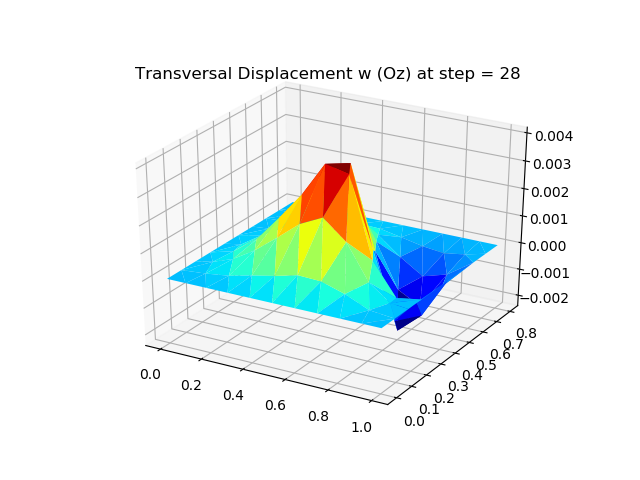
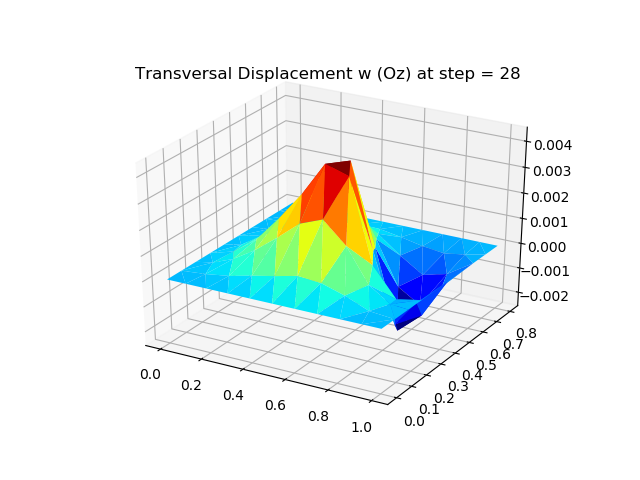
Fixing a bug in convergence in transversal load cases

diff --git a/src_code/core.py b/src_code/core.py
@@ -500,9 +500,9 @@ def internal_force_elem(X, T, ie, gp, Wgauss, saved_stress_xx,saved_stress_yy,sa
                      B=np.array([[dN1dx ,0     ,0            ,0            ,0            ,0 ,dN2dx ,0     ,0            ,0            ,0             ,0 ,dN3dx ,0     ,0            ,0            ,0           ,0],
                                  [0     ,dN1dy ,0            ,0            ,0            ,0 ,0     ,dN2dy ,0            ,0            ,0             ,0 ,0     ,dN3dy ,0            ,0            ,0           ,0],
                                  [dN1dy ,dN1dx ,0            ,0            ,0            ,0 ,dN2dy ,dN2dx ,0            ,0            ,0             ,0 ,dN3dy ,dN3dx ,0            ,0            ,0           ,0],
-                                 [0     ,0     ,ddN11[0,0]   ,ddN12[0,0]   ,ddN13[0,0]   ,0 ,0     ,0     ,ddN21[0,0]   ,ddN22[0,0]   ,ddN23[0,0]    ,0 ,0     ,0     ,ddN31[0,0]   ,ddN32[0,0]   ,ddN33[0,0]  ,0],
-                                 [0     ,0     ,ddN11[1,1]   ,ddN12[1,1]   ,ddN13[1,1]   ,0 ,0     ,0     ,ddN21[1,1]   ,ddN22[1,1]   ,ddN23[1,1]    ,0 ,0     ,0     ,ddN31[1,1]   ,ddN32[1,1]   ,ddN33[1,1]  ,0],
-                                 [0     ,0     ,2*ddN11[0,1] ,2*ddN12[0,1] ,2*ddN13[0,1] ,0 ,0     ,0     ,2*ddN21[0,1] ,2*ddN22[0,1] ,2*ddN23[0,1]  ,0 ,0     ,0     ,2*ddN31[0,1] ,2*ddN32[0,1] ,2*ddN33[0,1],0]])
+                                 [0     ,0     ,-ddN11[0,0]   ,-ddN12[0,0]   ,-ddN13[0,0]   ,0 ,0     ,0     ,-ddN21[0,0]   ,-ddN22[0,0]   ,-ddN23[0,0]    ,0 ,0     ,0     ,-ddN31[0,0]   ,-ddN32[0,0]   ,-ddN33[0,0]  ,0],
+                                 [0     ,0     ,-ddN11[1,1]   ,-ddN12[1,1]   ,-ddN13[1,1]   ,0 ,0     ,0     ,-ddN21[1,1]   ,-ddN22[1,1]   ,-ddN23[1,1]    ,0 ,0     ,0     ,-ddN31[1,1]   ,-ddN32[1,1]   ,-ddN33[1,1]  ,0],
+                                 [0     ,0     ,-2*ddN11[0,1] ,-2*ddN12[0,1] ,-2*ddN13[0,1] ,0 ,0     ,0     ,-2*ddN21[0,1] ,-2*ddN22[0,1] ,-2*ddN23[0,1]  ,0 ,0     ,0     ,-2*ddN31[0,1] ,-2*ddN32[0,1] ,-2*ddN33[0,1],0]])
 
                      stress = np.array(
                          [[saved_stress_xx[ii, thick, ie, jj]], [saved_stress_yy[ii, thick, ie, jj]],
@@ -522,7 +522,6 @@ def internal_force_elem(X, T, ie, gp, Wgauss, saved_stress_xx,saved_stress_yy,sa
                 thick+=1
 
             jj += 1
-
 
 
         return qe

diff --git a/src_code/solving.py b/src_code/solving.py
@@ -542,7 +542,6 @@ def plastic_analysis(X, T, globalK, Fb, plast_param, material_param, b, box, tot
             else:
                 tolerance = sp.linalg.norm(residual)/sp.linalg.norm(sp.csr_matrix(Fb+deltaFb))
 
-            print(q)
             data_tmp = '\nResidual: '+str(tolerance)+' \n'
             data_text += data_tmp
             print(data_tmp)
@@ -594,27 +593,25 @@ def plastic_analysis(X, T, globalK, Fb, plast_param, material_param, b, box, tot
                 k=0
                 while k < TT:
 
+                    kappa = k_calc(X, T, w, thetax, thetay, k)
+
                     j=0
                     count2 = 0
                     while j<Nplies:
 
+                        theta = angles[j]
+
+                        Tr = np.array([[m.cos(theta) ** 2, m.sin(theta) ** 2, 2 * m.sin(theta) * m.cos(theta)],
+                                       [m.sin(theta) ** 2, m.cos(theta) ** 2, -2 * m.sin(theta) * m.cos(theta)],
+                                       [-m.sin(theta) * m.cos(theta), m.sin(theta) * m.cos(theta),
+                                        (m.cos(theta) ** 2) - m.sin(theta) ** 2]])
 
                         thick = 0
                         while thick < 3:
 
-
-                            theta = angles[j]
-
-                            Tr = np.array([[m.cos(theta) ** 2,              m.sin(theta) ** 2,              2 * m.sin(theta) * m.cos(theta)],
-                                           [m.sin(theta) ** 2,              m.cos(theta) ** 2,              -2 * m.sin(theta) * m.cos(theta)],
-                                           [-m.sin(theta) * m.cos(theta),   m.sin(theta) * m.cos(theta),   (m.cos(theta) ** 2) - m.sin(theta) ** 2]])
-
                             th = pos[j] + thick * thickness[j][0]/2
 
-                            kappa = k_calc(X, T, w, thetax, thetay, k)
-
                             l=0
-
 
                             while l<3:
 
